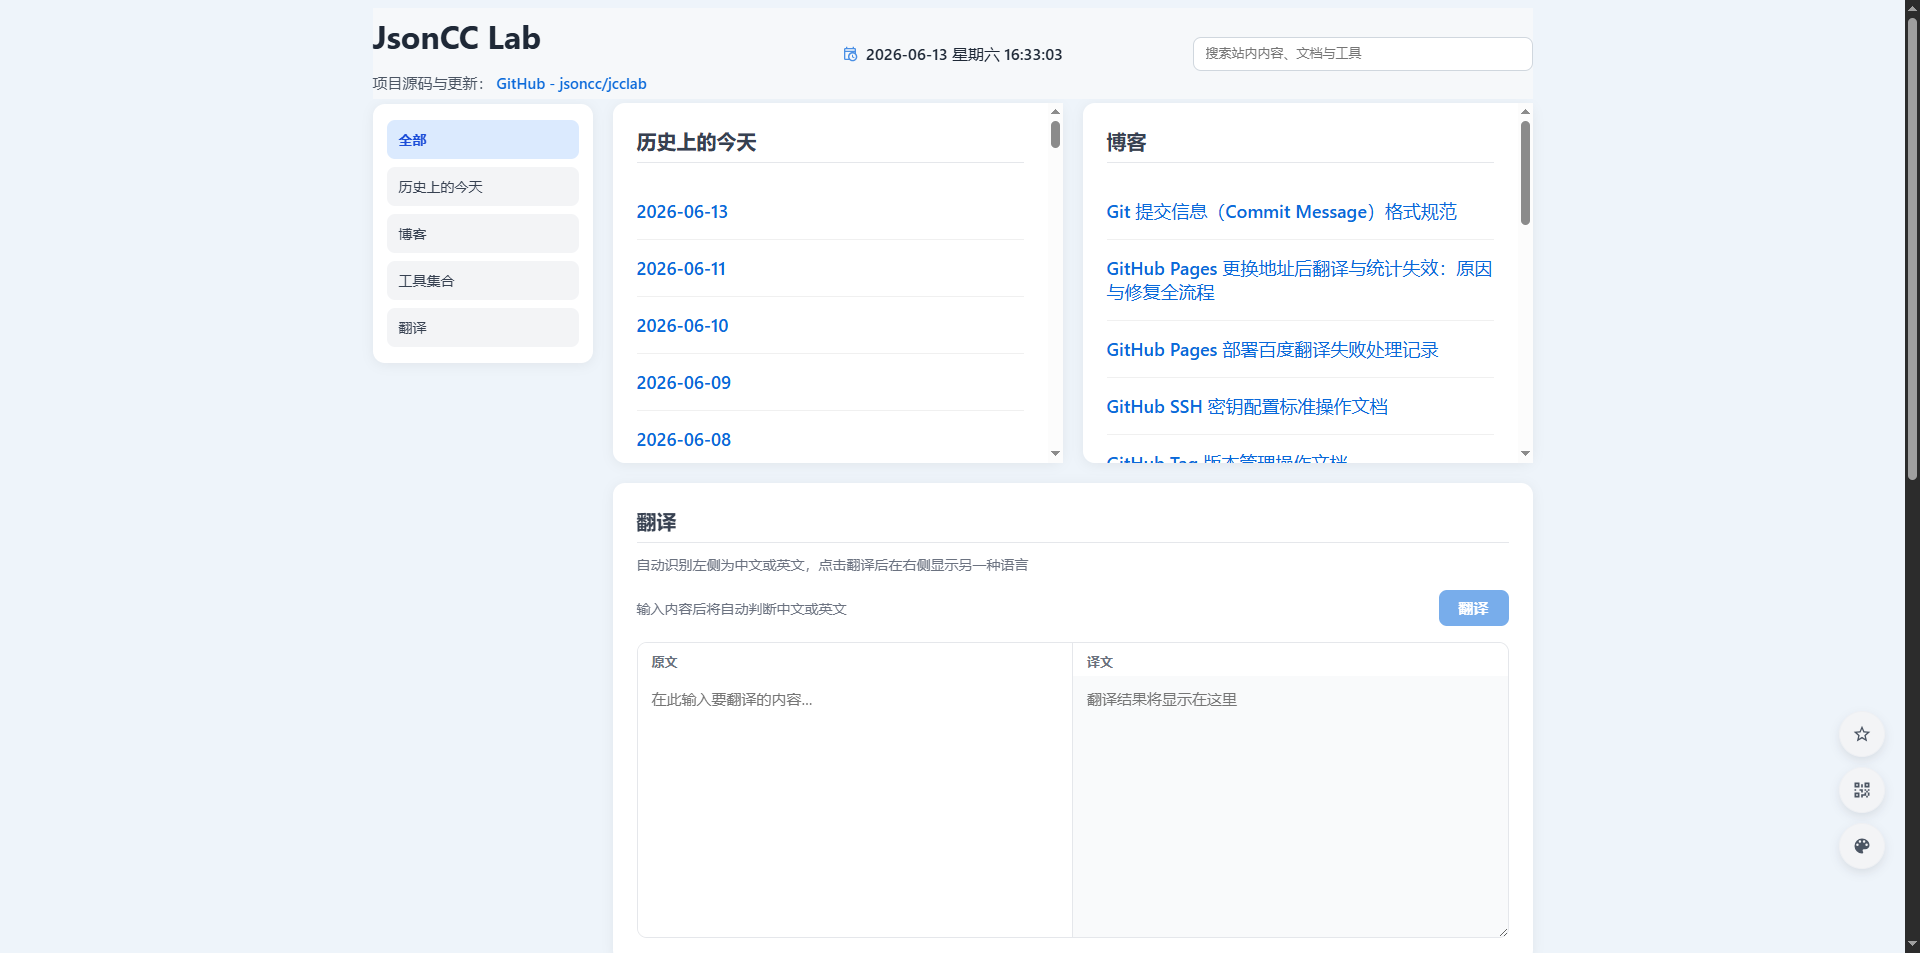
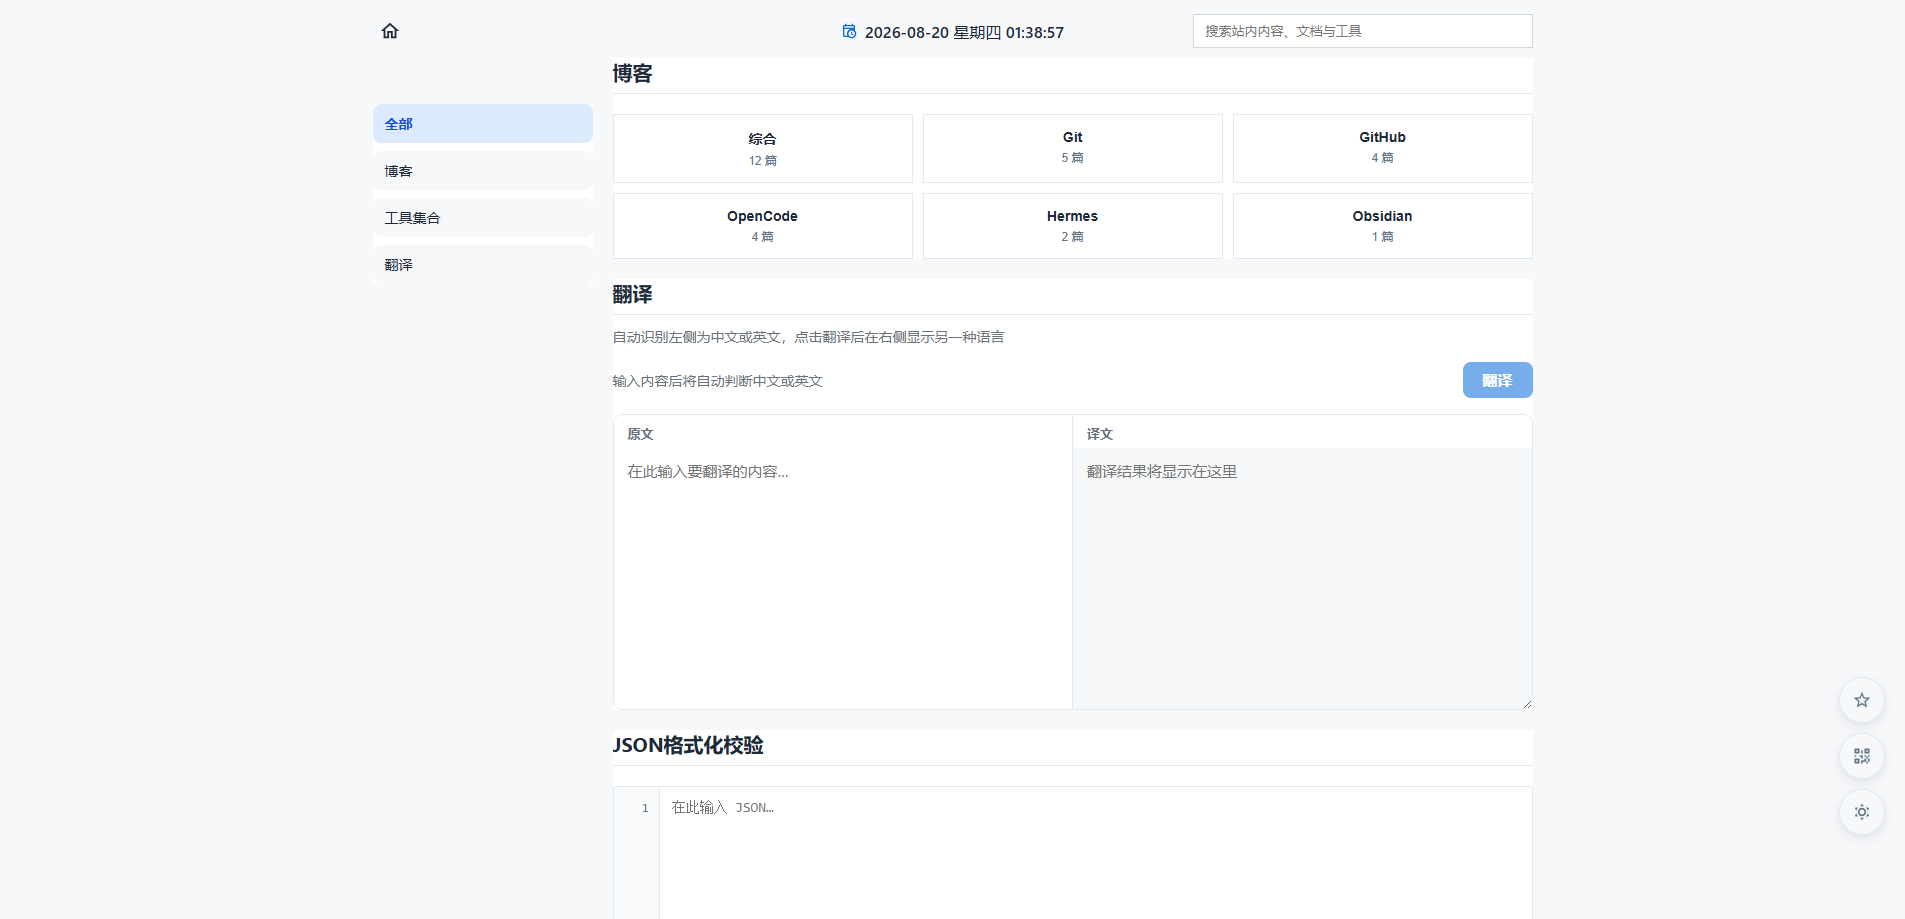
docs: 更新首页预览截图

diff --git a/README.md b/README.md
@@ -85,7 +85,7 @@ npm run preview  # 本地预览 dist
 ## 界面预览
 
 ![首页导航](./src/assets/images/home/1.png)
-![首页导航](./src/assets/images/home/3.png)
+![首页导航](./src/assets/images/home/2.png)
 
 ---
 
